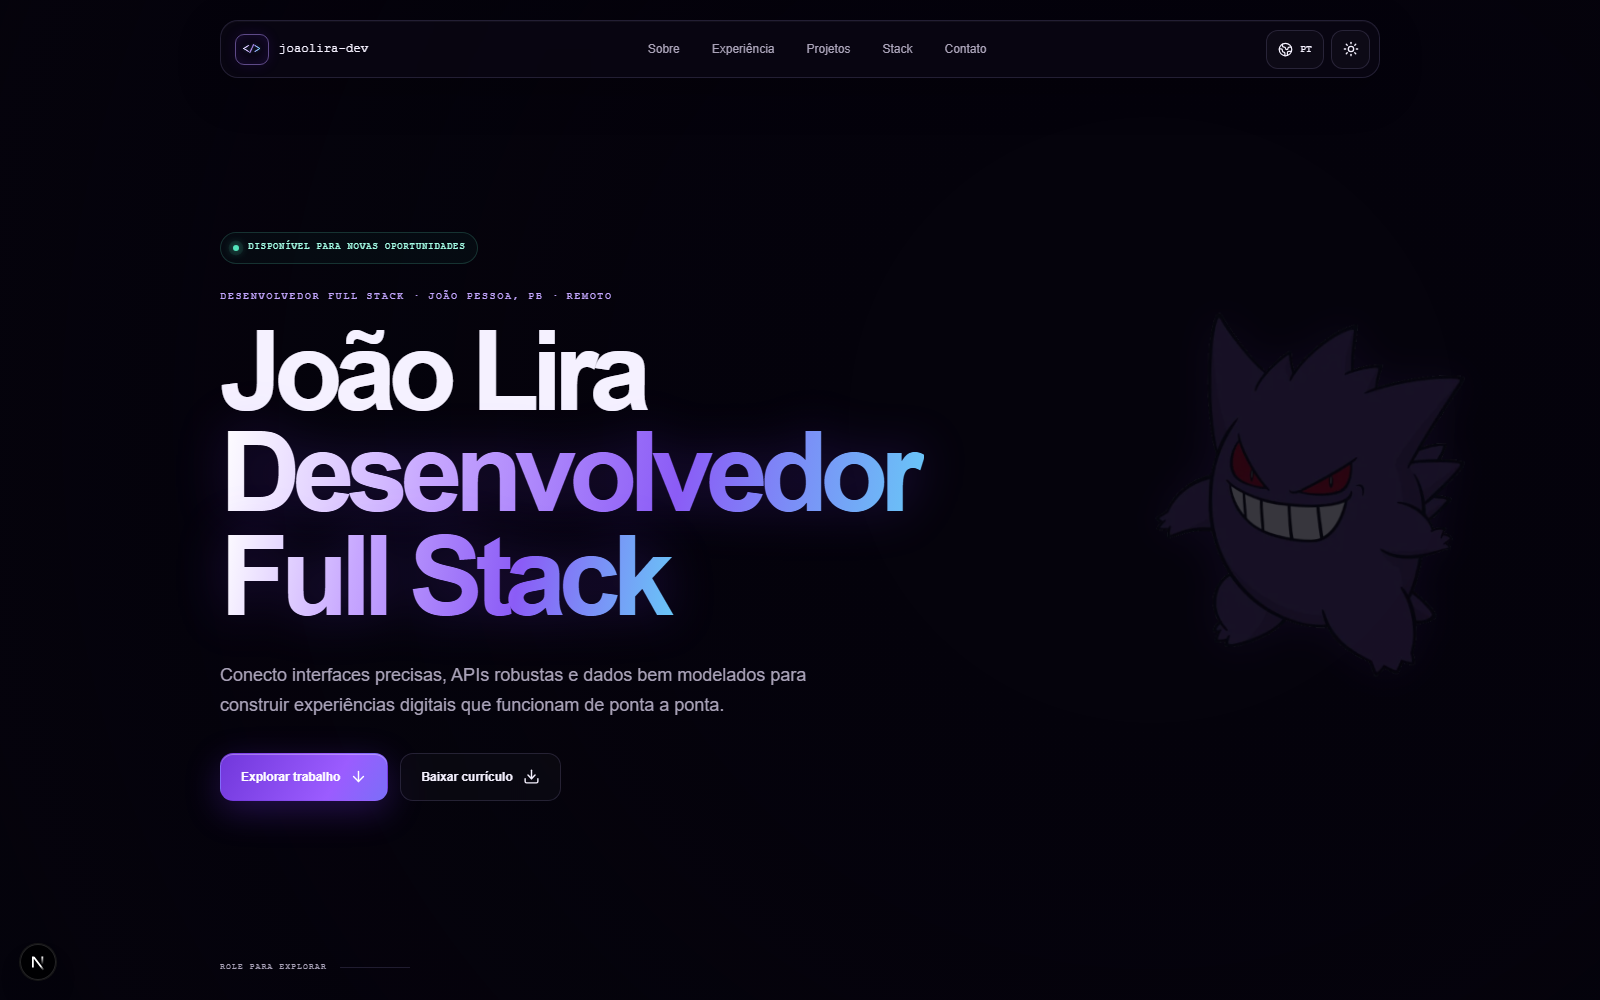
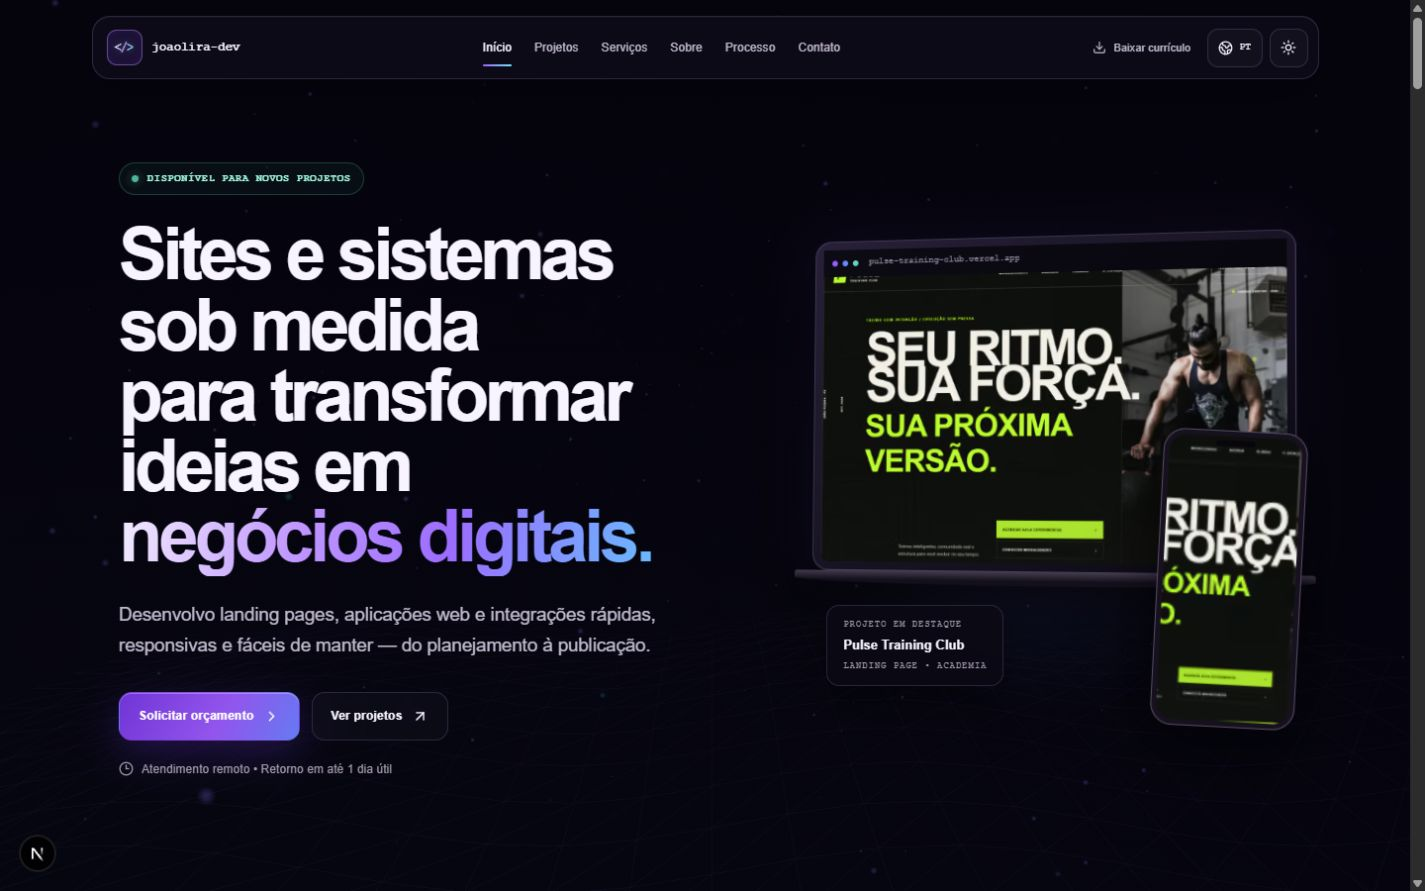
docs: atualiza documentacao e preview

diff --git a/README.md b/README.md
@@ -1,46 +1,38 @@
-# Portfólio — João Victor Lira
+# Portfólio — João Lira
 
-Portfólio pessoal de João Victor Lira, desenvolvedor Full Stack e estudante de
-Ciência da Computação. A página reúne experiência profissional, formação,
-tecnologias, projetos selecionados e canais de contato em uma experiência
-responsiva, bilíngue e com identidade visual inspirada no espaço.
+Portfólio comercial de João Lira, desenvolvedor full-stack focado em landing pages, sites institucionais, sistemas web, APIs e integrações. A experiência foi construída para apresentar serviços, trabalhos selecionados e experiência profissional, transformando visitas em contatos para novos projetos.
 
 ## Prévia
 
-![Página inicial do portfólio de João Victor Lira](./docs/portfolio-preview.png)
+![Página inicial do portfólio de João Lira](./docs/portfolio-preview.png)
 
-## Destaques
+## Principais recursos
 
-- interface responsiva para desktop, tablet e celular;
+- proposta profissional objetiva na primeira tela;
+- projetos com navegação horizontal controlada pela rolagem no desktop e no celular;
+- Hard Skills e Soft Skills apresentadas em blocos separados;
+- apresentação minimalista de quatro serviços de desenvolvimento web;
+- projetos organizados como estudos de caso acessíveis em modal;
+- trajetória profissional com tecnologias e responsabilidades reais;
+- formulário validado que prepara uma mensagem completa no WhatsApp;
+- navegação fixa com indicação da seção ativa e menu móvel acessível;
 - conteúdo em português e inglês;
-- temas escuro e claro;
-- background 3D interativo com movimento por cursor;
-- animações de entrada e microinterações;
-- currículo disponível para download;
-- formulário de contato integrado ao cliente de e-mail;
-- metadados de SEO, Open Graph e Twitter;
-- favicon e mascote personalizados;
-- respeito à preferência de movimento reduzido.
-
+- fundo abstrato leve, responsivo ao cursor e compatível com movimento reduzido;
+- imagens abaixo da primeira tela com carregamento sob demanda;
+- SEO, Open Graph, dados estruturados e favicon configurados.
 
 ## Tecnologias
 
 - Next.js 16 com App Router;
 - React 19 e TypeScript;
-- Three.js para a experiência 3D;
-- Tailwind CSS 4 como base de estilos;
-- CSS responsivo e animações nativas;
-- Lucide React para ícones;
+- CSS responsivo com animações nativas;
+- Tailwind CSS 4 como base do projeto;
+- Lucide React e ícones vetoriais locais;
 - ESLint e TypeScript para qualidade de código.
 
 ## Executando localmente
 
-### Requisitos
-
-- Node.js 22.13 ou superior;
-- npm.
-
-### Instalação
+Requisitos: Node.js 22.13 ou superior e npm.
 
 ```bash
 git clone https://github.com/joaolira-dev/portfolio-v2.git
@@ -49,10 +41,7 @@ npm install
 npm run dev
 ```
 
-Abra [http://localhost:3000](http://localhost:3000) no navegador.
-
-O projeto não depende de banco de dados nem exige variáveis de ambiente para
-funcionar.
+Abra [http://localhost:3000](http://localhost:3000). O projeto não exige banco de dados nem variáveis de ambiente.
 
 ## Scripts
 
@@ -60,37 +49,38 @@ funcionar.
 npm run dev        # inicia o ambiente de desenvolvimento
 npm run lint       # executa a análise estática
 npm run typecheck  # valida os tipos TypeScript
-npm run build      # gera o build otimizado de produção
+npm run build      # gera o build de produção
 npm run start      # executa o build de produção
-npm test           # roda lint, typecheck e build
+npm test           # executa lint, typecheck e build
 ```
 
-## Estrutura
+## Estrutura principal
 
 ```text
 portfolio-v2/
 ├── app/
-│   ├── Background3D.tsx  # cena 3D e parallax do background
-│   ├── Portfolio.tsx     # conteúdo e componentes da página
-│   ├── globals.css       # identidade visual e responsividade
-│   ├── layout.tsx        # metadados e estrutura global
-│   └── page.tsx          # rota principal
+│   ├── Background3D.tsx      # fundo espacial e parallax
+│   ├── BrandIcons.tsx        # ícones de redes sociais
+│   ├── CaseStudyModal.tsx    # estudo de caso acessível
+│   ├── Portfolio.tsx         # página e interações principais
+│   ├── portfolio-content.ts  # serviços e projetos
+│   ├── cinematic.css         # direção visual e responsividade atuais
+│   ├── globals.css           # estilos globais e componentes auxiliares
+│   ├── layout.tsx            # metadados e dados estruturados
+│   └── page.tsx              # rota inicial
 ├── docs/
 │   └── portfolio-preview.png
 ├── public/
-│   ├── projects/         # imagens dos projetos selecionados
-│   ├── profile.png
+│   ├── projects/             # imagens WebP dos projetos
+│   ├── profile.webp
 │   ├── og.png
 │   └── joaolira-curriculo.pdf
 ├── next.config.ts
 └── package.json
 ```
 
-
 ## Contato
 
 - GitHub: [@joaolira-dev](https://github.com/joaolira-dev)
 - LinkedIn: [joaolira-dev](https://www.linkedin.com/in/joaolira-dev)
 - E-mail: [joaoliradev@hotmail.com](mailto:joaoliradev@hotmail.com)
-
-Desenvolvido por João Victor Lira.
